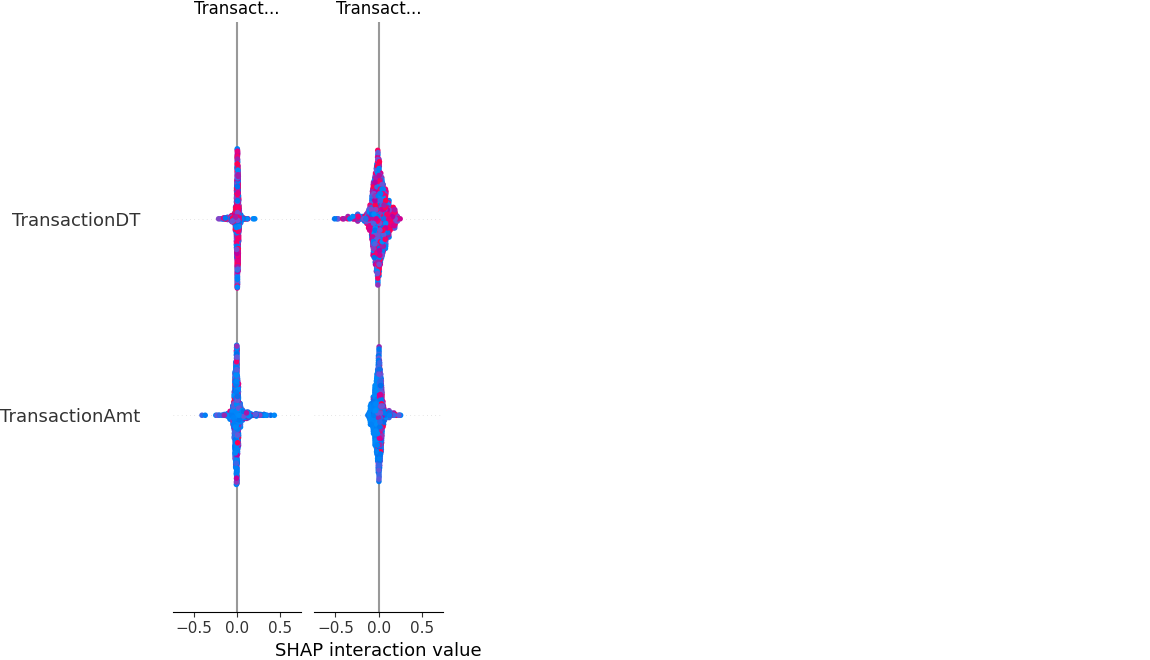
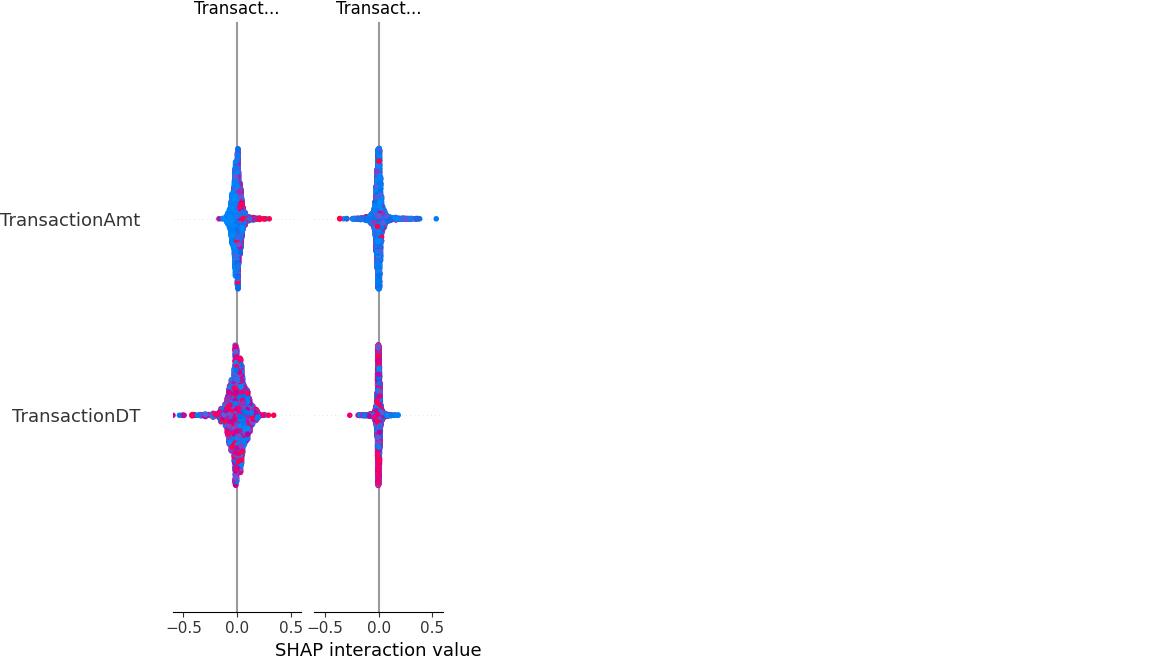
Add sampling in explanations.py

diff --git a/code/explanations.py b/code/explanations.py
@@ -5,6 +5,8 @@ import shap
 import os
 from sklearn.inspection import permutation_importance
 from sklearn.tree import DecisionTreeClassifier, export_text
+from typing import Tuple
+import numpy as np
 
 import paths
 
@@ -12,13 +14,13 @@ import paths
 df_train = pd.read_csv(paths.SMOTE20_PREP_TRAIN_PATH)
 
 # Uso un sottoinsieme per velocizzare i calcoli
-df_train_sample = df_train.sample(n=1000, random_state=42)
-X_train = df_train_sample.drop(columns=["isFraud"])
-y_train = df_train_sample["isFraud"]
+# df_train_sample = df_train.sample(n=1000, random_state=42)
+X_train = df_train.drop(columns=["isFraud"])
+y_train = df_train["isFraud"]
 
 # Lavoro su un sottoinsieme del train set
 
-df_test = pd.read_csv(paths.PREP_TEST_PATH).sample(n=1000, random_state=42)
+df_test = pd.read_csv(paths.PREP_TEST_PATH)
 X_test = df_test.drop(columns=["isFraud"])
 y_test = df_test["isFraud"]
 features = X_test.columns
@@ -38,6 +40,41 @@ output_dir = "graphs/explanations"
 os.makedirs(output_dir, exist_ok=True)
 
 top_n = 20
+
+MAX_SAMPLES_GLOBAL = 3000      # massimo per SHAP / permutation
+MIN_MINORITY_KEEP = 300        # tieni almeno tutte le frodi (o questo minimo)
+RANDOM_STATE = 42
+
+def make_stratified_sample(X: pd.DataFrame, y: pd.Series,
+                           max_samples: int,
+                           min_minority: int) -> Tuple[pd.DataFrame, pd.Series]:
+    minority_mask = y == 1
+    X_min = X[minority_mask]
+    y_min = y[minority_mask]
+    X_maj = X[~minority_mask]
+    y_maj = y[~minority_mask]
+
+    # tieni tutte le minoranze (o limita se enorme)
+    if len(X_min) > min_minority:
+        X_min = X_min.sample(n=min_minority, random_state=RANDOM_STATE)
+        y_min = y.loc[X_min.index]
+
+    remaining = max_samples - len(X_min)
+    if remaining < 0:
+        remaining = 0
+
+    if remaining < len(X_maj):
+        X_maj = X_maj.sample(n=remaining, random_state=RANDOM_STATE)
+        y_maj = y.loc[X_maj.index]
+
+    X_s = pd.concat([X_min, X_maj])
+    y_s = pd.concat([y_min, y_maj])
+    idx = np.random.RandomState(RANDOM_STATE).permutation(len(X_s))
+    return X_s.iloc[idx], y_s.iloc[idx]
+
+# Campione per spiegazioni globali
+X_expl, y_expl = make_stratified_sample(X_test, y_test, MAX_SAMPLES_GLOBAL, MIN_MINORITY_KEEP)
+print(f"Sample per spiegazioni: {X_expl.shape[0]} righe (fraud={y_expl.sum()})")
 
 # Loop sui modelli che hanno feature_importances_
 print("Calculating explanations...")
@@ -64,20 +101,21 @@ for name, model in models.items():
 
     # -------- SHAP --------
     try:
-        explainer = shap.Explainer(model, X_train)
-        shap_values = explainer(X_train)
+        # Usa campione ridotto per velocità
+        explainer = shap.Explainer(model, X_expl)
+        shap_values = explainer(X_expl)
         plt.figure()
-        shap.summary_plot(shap_values, X_train, show=False)
+        shap.summary_plot(shap_values, X_expl, show=False)
         plt.savefig(os.path.join(output_dir, f"{name}_shap_summary.png"))
         plt.close()
-        print(f"SHAP summary plot salvato per {name}")
+        print(f"SHAP summary plot salvato per {name} (sample size={len(X_expl)})")
     except Exception as e:
         print(f"SHAP non disponibile per {name}: {e}")
 
     # -------- Permutation Feature Importance --------
     try:
-        result = permutation_importance(model, X_test, y_test, n_repeats=10, random_state=42)
-        perm_importances = result.importances_mean
+        result = permutation_importance(model, X_expl, y_expl, n_repeats=10, random_state=RANDOM_STATE)
+        perm_importances = result.importances_mean # type: ignore
         indices = perm_importances.argsort()[::-1][:top_n]
 
         plt.figure(figsize=(8, 5))
